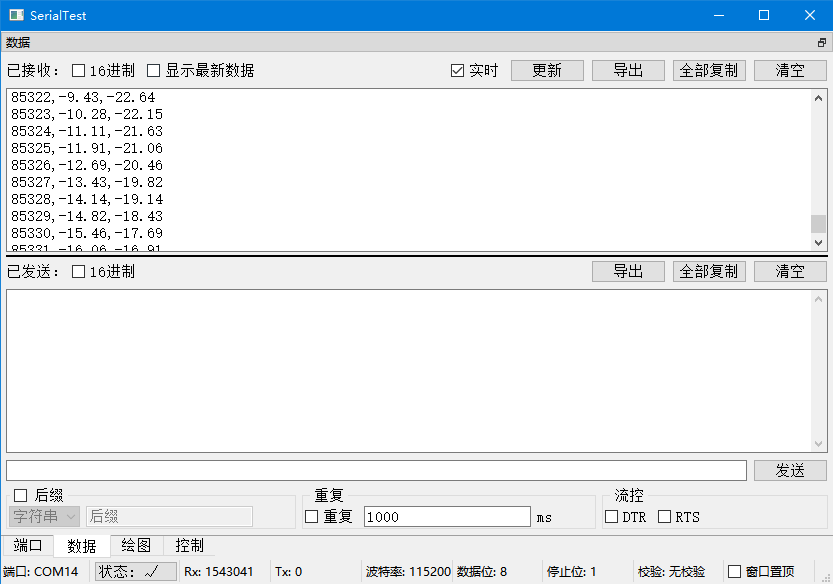
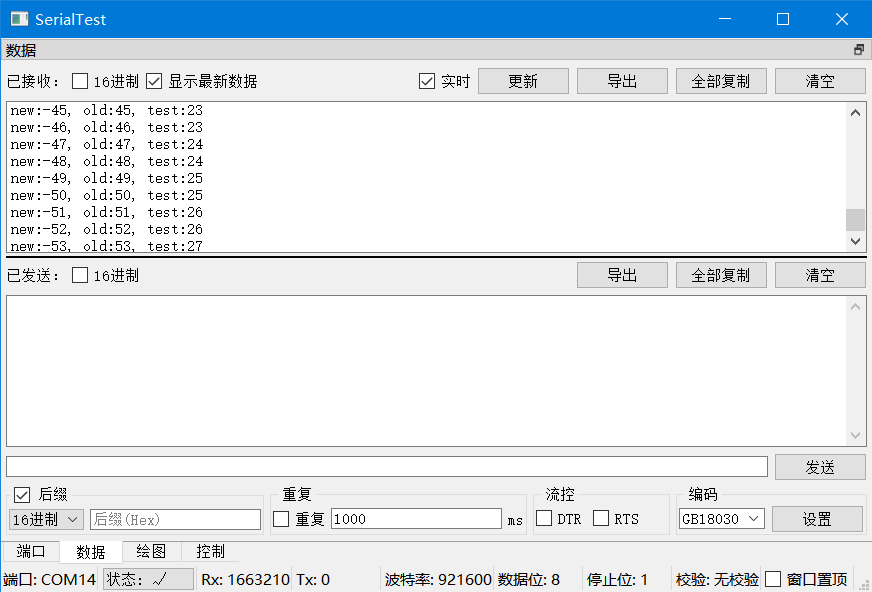
V0.1.1

Changed region(s): [[0.0, 0.0, 1.0, 0.524], [0.0, 0.7089, 1.0, 1.0], [0.437, 0.9555, 0.9988, 1.0]]

diff --git a/doc/README/README_zh_CN.md b/doc/README/README_zh_CN.md
@@ -4,25 +4,32 @@
 
 [English](../../README.md)  
 
-# 特点
+## 特点
 + 可在Windows, Ubuntu, Android, Raspbian上使用  
 + 快速响应  
 （可通过关闭接收框实时显示进一步提速）  
 + 低内存占用  
 （在原始数据导出模式下接收字节数与内存消耗约为1:1）  
 （导出大量串口数据时很有用）  
++ 支持各种中文外文编码  
+(UTF-8/16/32, GB18030, BIG5, KOI8-R, EUC-JP, EUC-KR, …)  
++ 自动保存偏好设置  
+(所有偏好设置保存在单个文件内，免安装可移动)  
 + 导出原始二进制数据/选中文本数据  
 + 实时绘图  
 + 自定义控制面板  
 + 支持Android蓝牙串口  
 
-# 预览
+## 预览
 ![port](../previews/port_zh_CN.png)  
 ![port_android](../previews/port_android_zh_CN.jpg)  
 ![data](../previews/data_zh_CN.png)  
 ![plot](../previews/plot_zh_CN.png)  
 
 [更多预览](../previews/previews_zh_CN.md)  
+
+## 更新日志
+[更新日志](../CHANGELOG/CHANGELOG_zh_CN.md)
 
 ## 手动编译
 编译时需要[手动下载](https://www.qcustomplot.com/release/2.1.0fixed/QCustomPlot-source.tar.gz)qcustomplot.c和qcustomplot.h并放到/src目录下编译。  

diff --git a/README.md b/README.md
@@ -4,25 +4,32 @@ A cross-platform serial port test tool.
 
 [中文介绍](doc/README/README_zh_CN.md)  
 
-# Features
+## Features
 + Tested on Windows, Ubuntu, Android, Raspbian  
 + Fast response  
 (Disable "Realtime" option in "data" tab for higher speed)  
 + Low memory cost  
 (around 1:1 memory cost in raw dump mode)  
 (useful when dumping serial data)  
++ Rich encoding support  
+(UTF-8/16/32, GB18030, BIG5, KOI8-R, EUC-JP, EUC-KR, …)  
++ Remember all preferences  
+(All preferences are saved in one file on PC, portable and clean)  
 + Export raw binary data or selected text  
 + Real-time plot  
 + Customized controllers  
 + Android Bluetooth SPP support  
 
-# Previews
+## Previews
 ![port](doc/previews/port.png)  
 ![port_android](doc/previews/port_android.jpg)  
 ![data](doc/previews/data.png)  
 ![plot](doc/previews/plot.png)  
 
 [more previews](doc/previews/previews.md)  
+
+## Change Log
+[Change Log](CHANGELOG.md)
 
 ## Build
 You need to [download](https://www.qcustomplot.com/release/2.1.0fixed/QCustomPlot-source.tar.gz) qcustomplot.c and qcustomplot.h manually, put them in the /src folder, then build.  

diff --git a/CHANGELOG.md b/CHANGELOG.md
@@ -1,0 +1,14 @@
+# Change Log
+
+[中文](doc/CHANGELOG/CHANGELOG_zh_CN.md) 
+## V0.1.1
++ Support non-ascii characters in path
++ Support encodings
++ Save user preferences
++ Better UI
++ Hide/Show some graph in PlotTab
++ Find valid data in frame when Plotting
++ Fix some bugs
+
+## V0.1
+The first released version

diff --git a/doc/CHANGELOG/CHANGELOG_zh_CN.md b/doc/CHANGELOG/CHANGELOG_zh_CN.md
@@ -1,0 +1,15 @@
+# 更新日志
+
+[English](../../CHANGELOG.md) 
+## V0.1.1
++ 支持含中文的启动路径
++ 支持各种编码
++ 保存用户偏好设置
++ 美化部分UI
++ 支持隐藏某一条曲线
++ 绘图时自动识别有效数据
++ 修复一些BUG
+
+
+## V0.1
+第一个公开版本
